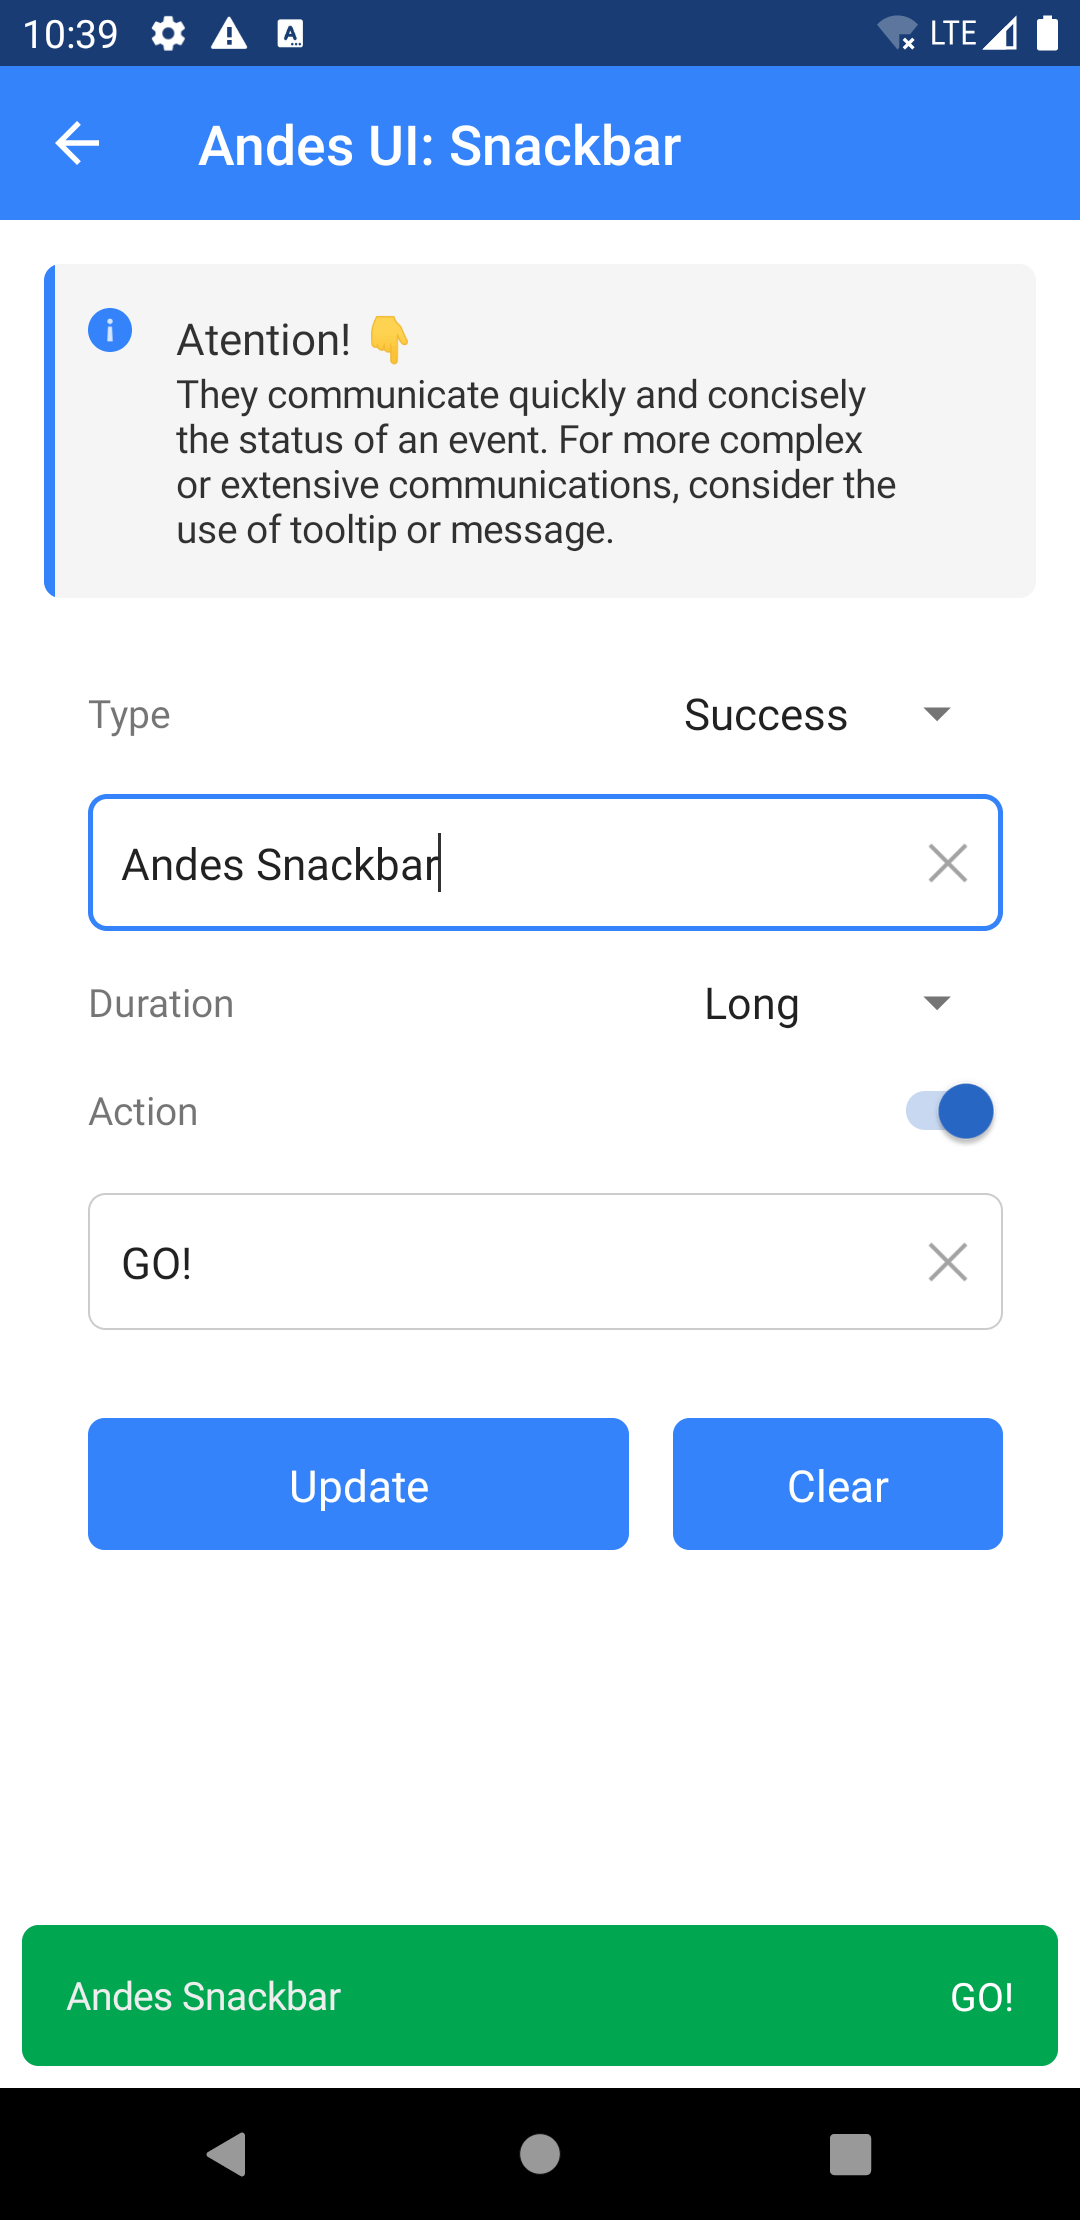
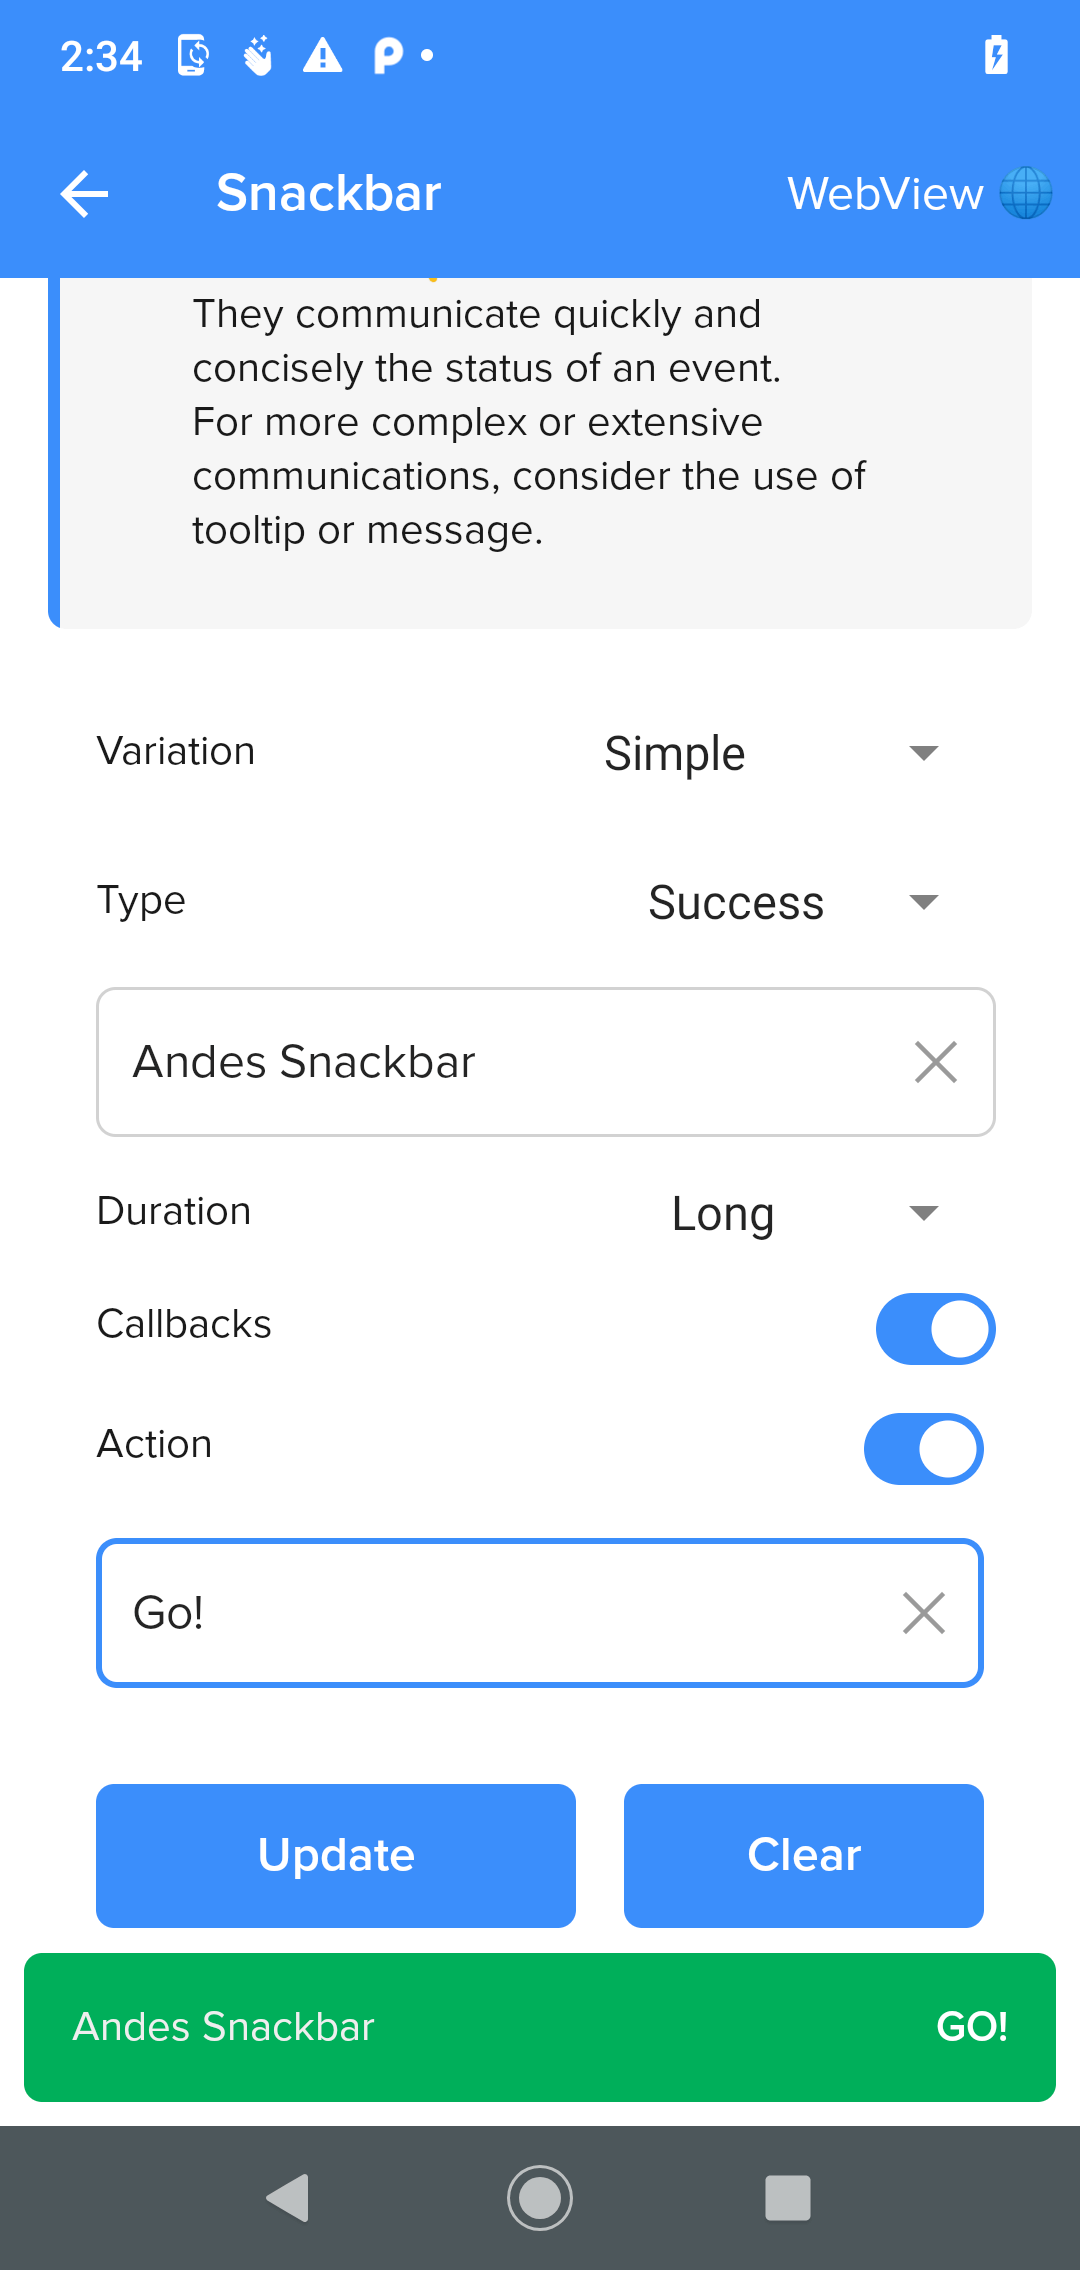
Add callback to AndesSnackBar (#485)
* add api for remove and add callback to the andes snackbar, unit tests

* upgrade lib version to 4.16.0

* Testapp

* code-quality fixes

* Documentation

* compress png resources for documentation.

* corrections in docs and tests.

* upgrade lib version.

* fix typo in changelog

diff --git a/components/src/test/java/com/mercadolibre/android/andesui/snackbar/AndesSnackbarTest.kt b/components/src/test/java/com/mercadolibre/android/andesui/snackbar/AndesSnackbarTest.kt
@@ -4,12 +4,18 @@ import android.app.Activity
 import android.content.Context
 import android.os.Build
 import android.view.View
+import androidx.appcompat.app.AppCompatActivity
 import androidx.coordinatorlayout.widget.CoordinatorLayout
 import androidx.test.platform.app.InstrumentationRegistry
 import com.mercadolibre.android.andesui.R
 import com.mercadolibre.android.andesui.snackbar.action.AndesSnackbarAction
+import com.mercadolibre.android.andesui.snackbar.callback.AndesSnackbarCallback
 import com.mercadolibre.android.andesui.snackbar.duration.AndesSnackbarDuration
 import com.mercadolibre.android.andesui.snackbar.type.AndesSnackbarType
+import com.nhaarman.mockitokotlin2.any
+import com.nhaarman.mockitokotlin2.spy
+import com.nhaarman.mockitokotlin2.times
+import com.nhaarman.mockitokotlin2.verify
 import org.junit.Assert
 import org.junit.Before
 import org.junit.Test
@@ -24,12 +30,32 @@ class AndesSnackbarTest {
 
     lateinit var context: Context
     lateinit var view: View
+    private lateinit var activity: AppCompatActivity
+    private lateinit var callback: AndesSnackbarCallback
 
     @Before
     fun setUp() {
         context = InstrumentationRegistry.getInstrumentation().targetContext
         context.setTheme(R.style.Theme_AppCompat_Light)
+        setupActivityForTesting()
+    }
+
+    private fun setupActivityForTesting() {
+        val robolectricActivity = Robolectric.buildActivity(AppCompatActivity::class.java).create()
+        activity = robolectricActivity.get()
+        activity.setTheme(R.style.Theme_AppCompat)
         view = CoordinatorLayout(context)
+        activity.setContentView(view)
+        callback = spy(object : AndesSnackbarCallback() {
+            override fun onSnackbarDismissed() {
+                // no-op
+            }
+
+            override fun onSnackbarShown() {
+                // no-op
+            }
+        })
+        robolectricActivity.start().postCreate(null).resume().visible()
     }
 
     @Test
@@ -77,11 +103,11 @@ class AndesSnackbarTest {
     @Test
     fun `Snackbar, isShow before show`() {
         val snackbar = AndesSnackbar(
-                context,
-                view,
-                AndesSnackbarType.NEUTRAL,
-                MESSAGE,
-                AndesSnackbarDuration.SHORT
+            context,
+            view,
+            AndesSnackbarType.NEUTRAL,
+            MESSAGE,
+            AndesSnackbarDuration.SHORT
         )
         Assert.assertEquals(snackbar.isShown, false)
     }
@@ -89,18 +115,18 @@ class AndesSnackbarTest {
     @Test
     fun `Snackbar, isShow after show`() {
         val snackbar = AndesSnackbar(
-                context,
-                view,
-                AndesSnackbarType.NEUTRAL,
-                MESSAGE,
-                AndesSnackbarDuration.SHORT
+            context,
+            view,
+            AndesSnackbarType.NEUTRAL,
+            MESSAGE,
+            AndesSnackbarDuration.SHORT
         )
         snackbar.show()
         Assert.assertEquals(snackbar.isShown, true)
     }
 
     @Test
-    fun `Snackbar, ErrorCode without action`(){
+    fun `Snackbar, ErrorCode without action`() {
         val snackbar = AndesSnackbar(
             context,
             view,
@@ -207,6 +233,59 @@ class AndesSnackbarTest {
         Assert.assertEquals(snackbar.errorCode, ERROR_CODE)
     }
 
+    @Test
+    fun `Snackbar, onShown callback is invoked when callback is setted from api`() {
+        val snackbar = AndesSnackbar(
+            context,
+            view,
+            AndesSnackbarType.NEUTRAL,
+            MESSAGE,
+            AndesSnackbarDuration.SHORT
+        )
+
+        snackbar.addCallback(callback)
+        snackbar.show()
+
+        verify(callback, times(1)).onShown(any())
+        verify(callback, times(1)).onSnackbarShown()
+    }
+
+    @Test
+    fun `Snackbar, onDismissed callback is invoked when callback is setted from api`() {
+        val snackbar = AndesSnackbar(
+            context,
+            view,
+            AndesSnackbarType.NEUTRAL,
+            MESSAGE,
+            AndesSnackbarDuration.SHORT
+        )
+
+        snackbar.addCallback(callback)
+        snackbar.show()
+        snackbar.dismiss()
+
+        verify(callback, times(1)).onDismissed(any(), any())
+        verify(callback, times(1)).onSnackbarDismissed()
+    }
+
+    @Test
+    fun `Snackbar, onShown callback is not invoked when callback is removed from api`() {
+        val snackbar = AndesSnackbar(
+            context,
+            view,
+            AndesSnackbarType.NEUTRAL,
+            MESSAGE,
+            AndesSnackbarDuration.SHORT
+        )
+
+        snackbar.addCallback(callback)
+        snackbar.removeCallback(callback)
+        snackbar.show()
+
+        verify(callback, times(0)).onShown(any())
+        verify(callback, times(0)).onSnackbarShown()
+    }
+
     private companion object {
         const val MESSAGE = "Snackbar"
         const val ERROR_CODE = "1234ABC"
@@ -216,17 +295,17 @@ class AndesSnackbarTest {
 
         val action = AndesSnackbarAction(
             ACTION_TEXT,
-            object : View.OnClickListener{
+            object : View.OnClickListener {
                 override fun onClick(v: View?) {}
             }
         )
         val action2 = AndesSnackbarAction(
             ACTION_TEXT,
-            object : View.OnClickListener{
+            object : View.OnClickListener {
                 override fun onClick(v: View?) {}
             }
         )
     }
 
-    private class TestActivity: Activity()
+    private class TestActivity : Activity()
 }

diff --git a/demoapp/src/main/java/com/mercadolibre/android/andesui/demoapp/components/snackbar/SnackbarShowcaseActivity.kt b/demoapp/src/main/java/com/mercadolibre/android/andesui/demoapp/components/snackbar/SnackbarShowcaseActivity.kt
@@ -13,8 +13,11 @@ import com.mercadolibre.android.andesui.demoapp.commons.CustomViewPager
 import com.mercadolibre.android.andesui.demoapp.databinding.AndesuiDynamicSnackbarBinding
 import com.mercadolibre.android.andesui.snackbar.AndesSnackbar
 import com.mercadolibre.android.andesui.snackbar.action.AndesSnackbarAction
+import com.mercadolibre.android.andesui.snackbar.callback.AndesSnackbarCallback
 import com.mercadolibre.android.andesui.snackbar.duration.AndesSnackbarDuration
 import com.mercadolibre.android.andesui.snackbar.type.AndesSnackbarType
+import com.mercadolibre.android.andesui.switchandes.AndesSwitch
+import com.mercadolibre.android.andesui.switchandes.status.AndesSwitchStatus
 import com.mercadolibre.android.andesui.textfield.state.AndesTextfieldState
 
 class SnackbarShowcaseActivity : BaseActivity() {
@@ -63,13 +66,15 @@ class SnackbarShowcaseActivity : BaseActivity() {
 
         setupAndesSnackabrVariation(variation)
 
-        hasAction.setOnCheckedChangeListener { _, isChecked ->
-            if (isChecked) {
-                actionGroup.visibility = View.VISIBLE
-            } else {
-                actionGroup.visibility = View.GONE
+        hasAction.setOnStatusChangeListener(object : AndesSwitch.OnStatusChangeListener {
+            override fun onStatusChange(andesSwitch: AndesSwitchStatus) {
+                if (andesSwitch == AndesSwitchStatus.CHECKED) {
+                    actionGroup.visibility = View.VISIBLE
+                } else {
+                    actionGroup.visibility = View.GONE
+                }
             }
-        }
+        })
 
         val snackbarType = binding.snackbarType
         ArrayAdapter.createFromResource(
@@ -92,7 +97,7 @@ class SnackbarShowcaseActivity : BaseActivity() {
         }
 
         clearButton.setOnClickListener {
-            hasAction.isChecked = false
+            hasAction.status = AndesSwitchStatus.UNCHECKED
             actionGroup.visibility = View.GONE
 
             text.state = AndesTextfieldState.IDLE
@@ -172,13 +177,24 @@ class SnackbarShowcaseActivity : BaseActivity() {
             binding.snackbarText.text!!,
             selectedDuration
         )
-        if (binding.snackbarHasAction.isChecked) {
+        if (binding.snackbarHasAction.status == AndesSwitchStatus.CHECKED) {
             snackbar.action = AndesSnackbarAction(
                 binding.snackbarTextAction.text!!,
                 View.OnClickListener {
                     Toast.makeText(this, "Callback", Toast.LENGTH_SHORT).show()
                 }
             )
+        }
+
+        if (binding.snackbarHasCallbacks.status == AndesSwitchStatus.CHECKED) {
+            snackbar.addCallback(
+                object : AndesSnackbarCallback() {
+                    override fun onSnackbarDismissed() =
+                        Toast.makeText(applicationContext, "Snackbar dismissed", Toast.LENGTH_SHORT).show()
+
+                    override fun onSnackbarShown() =
+                        Toast.makeText(applicationContext, "Snackbar shown", Toast.LENGTH_SHORT).show()
+                })
         }
         snackbar.show()
     }
@@ -197,13 +213,24 @@ class SnackbarShowcaseActivity : BaseActivity() {
             binding.snackbarText.text!!,
             selectedDuration
         )
-        if (binding.snackbarHasAction.isChecked) {
+        if (binding.snackbarHasAction.status == AndesSwitchStatus.CHECKED) {
             snackbar.action = AndesSnackbarAction(
                 binding.snackbarTextAction.text!!,
                 View.OnClickListener {
                     Toast.makeText(this, "Callback", Toast.LENGTH_SHORT).show()
                 }
             )
+        }
+
+        if (binding.snackbarHasCallbacks.status == AndesSwitchStatus.CHECKED) {
+            snackbar.addCallback(
+                object : AndesSnackbarCallback() {
+                    override fun onSnackbarDismissed() =
+                        Toast.makeText(applicationContext, "Snackbar dismissed", Toast.LENGTH_SHORT).show()
+
+                    override fun onSnackbarShown() =
+                        Toast.makeText(applicationContext, "Snackbar shown", Toast.LENGTH_SHORT).show()
+                })
         }
         snackbar.show()
     }
@@ -221,7 +248,7 @@ class SnackbarShowcaseActivity : BaseActivity() {
     }
 
     private fun isValidHasAction(): Boolean {
-        return if (binding.snackbarHasAction.isChecked && binding.snackbarTextAction.text.isNullOrEmpty()) {
+        return if (binding.snackbarHasAction.status == AndesSwitchStatus.CHECKED && binding.snackbarTextAction.text.isNullOrEmpty()) {
             binding.snackbarTextAction.state = AndesTextfieldState.ERROR
             binding.snackbarTextAction.helper = getString(R.string.andes_snackbar_error)
             false

diff --git a/components/src/main/java/com/mercadolibre/android/andesui/snackbar/AndesSnackbar.kt b/components/src/main/java/com/mercadolibre/android/andesui/snackbar/AndesSnackbar.kt
@@ -14,6 +14,7 @@ import androidx.constraintlayout.widget.ConstraintLayout
 import com.google.android.material.snackbar.Snackbar
 import com.mercadolibre.android.andesui.R
 import com.mercadolibre.android.andesui.snackbar.action.AndesSnackbarAction
+import com.mercadolibre.android.andesui.snackbar.callback.AndesSnackbarCallback
 import com.mercadolibre.android.andesui.snackbar.duration.AndesSnackbarDuration
 import com.mercadolibre.android.andesui.snackbar.factory.AndesSnackbarAttrs
 import com.mercadolibre.android.andesui.snackbar.factory.AndesSnackbarConfiguration
@@ -346,6 +347,14 @@ class AndesSnackbar : CardView {
         freeSpace -= ANDES_SNACKBAR_PADDING * resources.getDimensionPixelSize(R.dimen.andes_snackbar_padding) // Paddings
         freeSpace -= widthText // Space occupied by the text
         return freeSpace
+    }
+
+    fun addCallback(callback: AndesSnackbarCallback) {
+        snackbar.addCallback(callback)
+    }
+
+    fun removeCallback(callback: AndesSnackbarCallback) {
+        snackbar.removeCallback(callback)
     }
 
     private fun createConfig() =

diff --git a/components/src/main/java/com/mercadolibre/android/andesui/snackbar/callback/AndesSnackbarCallback.kt b/components/src/main/java/com/mercadolibre/android/andesui/snackbar/callback/AndesSnackbarCallback.kt
@@ -1,0 +1,29 @@
+package com.mercadolibre.android.andesui.snackbar.callback
+
+import com.google.android.material.snackbar.Snackbar
+
+/**
+ * Callback class for [AndesSnackbar] instances.
+ *
+ * If set, AndesSnackbar will call each of those methods in the proper moment.
+ * Consumer of this should specify what to do in each case.
+ */
+abstract class AndesSnackbarCallback: Snackbar.Callback() {
+    override fun onDismissed(transientBottomBar: Snackbar?, event: Int) {
+        onSnackbarDismissed()
+    }
+
+    override fun onShown(sb: Snackbar?) {
+        this.onSnackbarShown()
+    }
+
+    /**
+     * Invoked when AndesSnackbar is dismissed.
+     */
+    abstract fun onSnackbarDismissed()
+
+    /**
+     * Invoked when AndesSnackbar is shown.
+     */
+    abstract fun onSnackbarShown()
+}

diff --git a/docs/guide/snackbar/AndesSnackbar.md b/docs/guide/snackbar/AndesSnackbar.md
@@ -74,6 +74,8 @@ This component can't be created via XML.
 | Unit | **show()** <br/> Shows the snackbar for [AndesSnackbarDuration](#andessnackbarduration) time. |
 | Unit | **dismiss()** <br/> Dismisses snackbar in case it is being displayed. |
 | Boolean | **isShown()** <br/> Retrives if the snackbar is being displayed or not. |
+| Unit | **addCallback(callback: AndesSnackbarCallback)** <br/> Add a new callback to the snackbar. |
+| Unit | **removeCallback(callback: AndesSnackbarCallback)** <br/> remove an added callback. |
 
 <br/>
 
@@ -89,6 +91,8 @@ enum class AndesSnackbarType
 | NEUTRAL | Gives a gray color style to the component<br/><img src="../resources/snackbar/neutralSnackbarExample.png" height="48"/> |
 | ERROR | Gives a red color red to the component<br/><img src="../resources/snackbar/errorSnackbarExample.png" height="48"/> |
 | SUCCESS | Gives a green color style to the component<br/><img src="../resources/snackbar/successSnackbarExample.png" height="48"/> |
+
+
 
 <br/>
 
@@ -135,6 +139,21 @@ class AndesSnackbarAction
 | -------- | ------- |
 | text: String | **get():** retrieves button displayed text. <br/> **set(value: String):** updates button displayed text. |
 | callback: View.OnClickListener | **get():** retrieves button on click callback. <br/> **set(value: String?):** updates button on click callback. |
+
+
+### AndesSnackbarCallback
+Class used to create the callback to listen the snackbar show and dismiss events.
+```kotlin
+abstract class AndesSnackbarAction
+```
+
+<br/>
+
+#### Functions
+| Return type | Method |
+| -------- | ------- |
+| Unit | **onSnackbarDismissed()**<br/> function that should be override to implement actions when snackbar is dissmissed |
+| Unit | **onSnackbarShown()**<br/> function that should be override to implement actions when snackbar is shown  |
 
 <br/>
 

diff --git a/CHANGELOG.md b/CHANGELOG.md
@@ -1,6 +1,7 @@
 # v4.17.0
 ## 🚀 Feature
-- Update in the `AndesTextView` docs
+- Added callbacks feature in Snackbar component. | Author: [@meligeo](https://github.com/meligeo)
+- Update in the `AndesTextView` docs. | Author: [@juanunzu](https://github.com/juanunzu)
 
 # v4.16.0
 ## 🛠 Fixes

diff --git a/demoapp/src/main/res/raw/andesui_demoapp_changelog.md b/demoapp/src/main/res/raw/andesui_demoapp_changelog.md
@@ -1,6 +1,7 @@
 # v4.17.0
 ## 🚀 Feature
-- Update in the `AndesTextView` docs
+- Added callbacks feature in Snackbar component. | Author: [@meligeo](https://github.com/meligeo)
+- Update in the `AndesTextView` docs. | Author: [@juanunzu](https://github.com/juanunzu)
 
 # v4.16.0
 ## 🛠 Fixes
